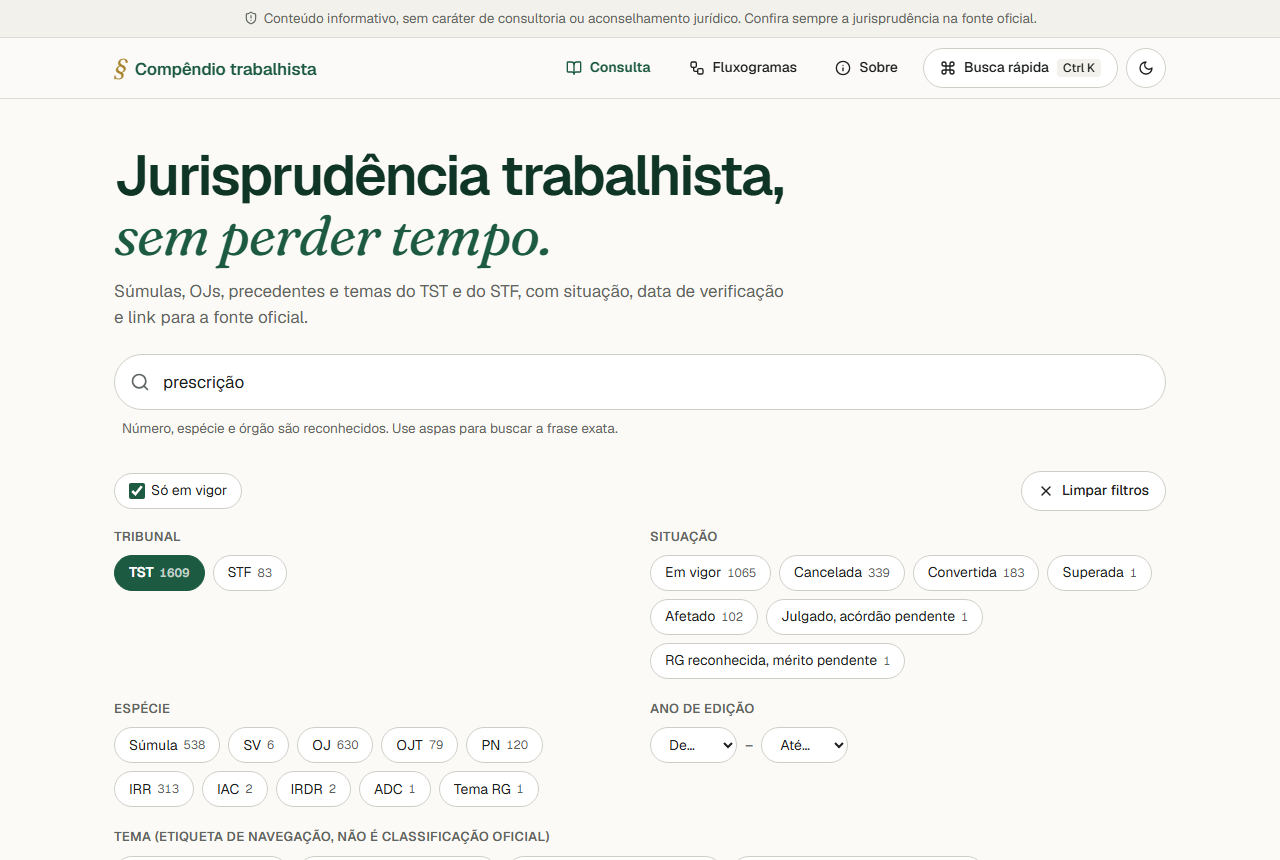
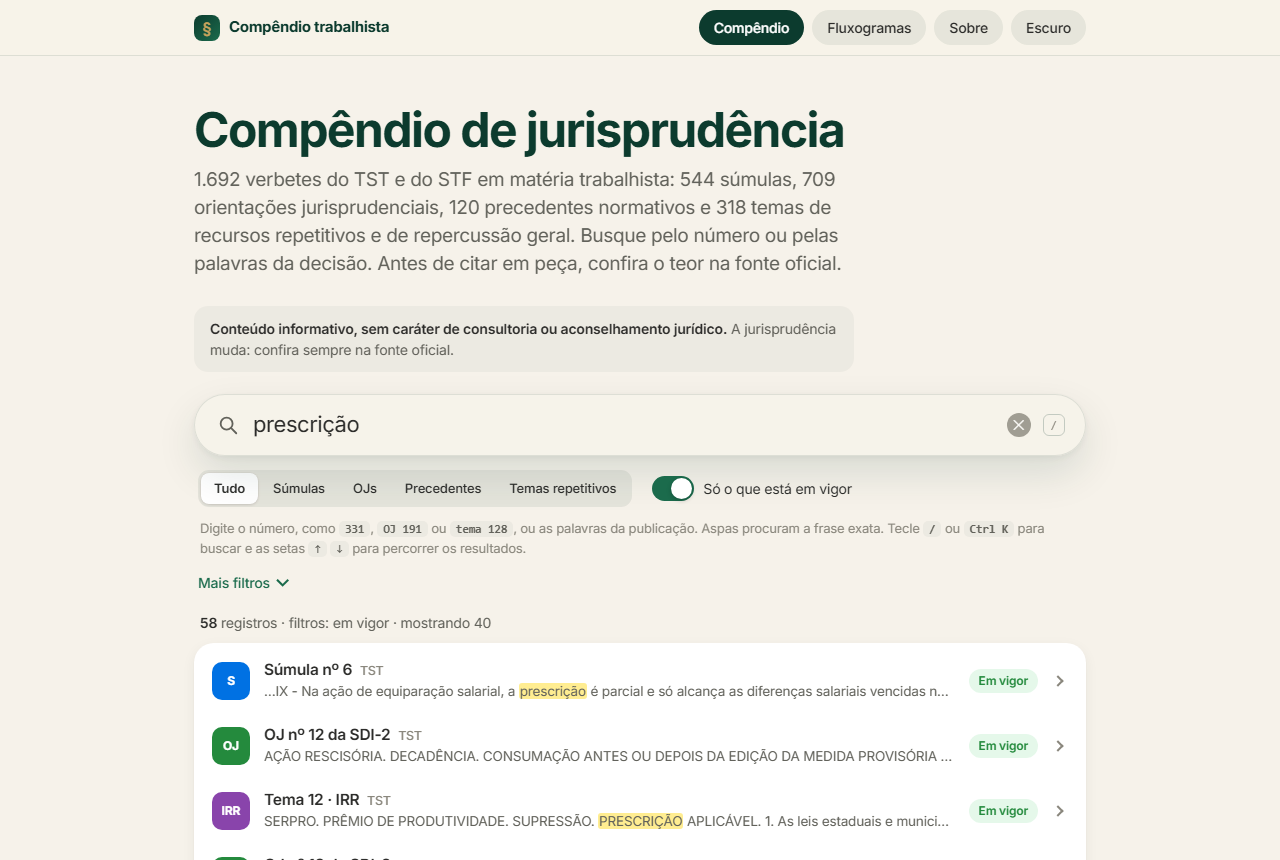
Atualiza README, licenças, case e imagens para o novo visual

diff --git a/public/case.html b/public/case.html
@@ -12,44 +12,44 @@
 <meta property="og:image" content="https://ygorsoaresadv-blip.github.io/compendio-trabalhista/og.png">
 <meta property="og:type" content="article">
 <style>
-@font-face{font-family:Geist;font-weight:100 900;font-display:swap;src:url(fonts/geist-latin.woff2) format("woff2")}
-@font-face{font-family:Fraunces;font-style:italic;font-weight:100 900;font-display:swap;src:url(fonts/fraunces-italic-latin.woff2) format("woff2")}
-:root{--bg:#fbfaf7;--fg:#1d1f1e;--muted:#5f6661;--line:#dcdbd4;--verde:#0f3527;--link:#1c5a41;--ouro:#a9852f;--card:#fff;--tile:#f2f1ec}
-@media (prefers-color-scheme:dark){:root{--bg:#0a2118;--fg:#eef3ef;--muted:#aebdb4;--line:#25483a;--verde:#eef3ef;--link:#d4b566;--ouro:#d4b566;--card:#0f2d22;--tile:#11332a}}
+@font-face{font-family:"Inter Variable";font-weight:100 900;font-display:swap;src:url(fonts/inter-latin-wght-normal.woff2) format("woff2")}
+:root{--bg:#F6F2EA;--elev:#fff;--fg:#2C2C2A;--muted:#62625B;--faint:#8A877D;--line:rgba(12,59,46,.11);--tinta:#0C3B2E;--link:#1B6B4C;--ouro:#8F6F2E;--fill:rgba(12,59,46,.075);--fill2:rgba(12,59,46,.04);--sombra:0 1px 2px rgba(12,59,46,.05),0 4px 14px rgba(12,59,46,.06)}
 *{box-sizing:border-box}
-body{margin:0;background:var(--bg);color:var(--fg);font:17px/1.6 Geist,system-ui,sans-serif;-webkit-font-smoothing:antialiased}
+body{margin:0;background:var(--bg);color:var(--fg);font:16px/1.55 -apple-system,BlinkMacSystemFont,"SF Pro Text","Inter Variable",Inter,"Segoe UI",Roboto,Arial,sans-serif;letter-spacing:-.011em;-webkit-font-smoothing:antialiased}
 a{color:var(--link);text-underline-offset:3px}
-:focus-visible{outline:2px solid var(--link);outline-offset:3px;border-radius:6px}
+:focus-visible{outline:3px solid rgba(198,163,92,.7);outline-offset:2px;border-radius:8px}
 .w{max-width:760px;margin:0 auto;padding:0 20px}
-header{padding:20px 0;border-bottom:1px solid var(--line)}
-.logo{font-weight:600;color:var(--verde);text-decoration:none;display:inline-flex;gap:8px;align-items:baseline}
-.logo i{font:italic 400 24px Fraunces,Georgia,serif;color:var(--ouro)}
-h1{font-size:clamp(36px,6vw,58px);line-height:1.05;letter-spacing:-.035em;color:var(--verde);margin:48px 0 14px;font-weight:600;text-wrap:balance}
-h1 em{font:italic 400 1em Fraunces,Georgia,serif;color:var(--link);letter-spacing:-.02em}
-h2{font-size:28px;letter-spacing:-.02em;color:var(--verde);margin:52px 0 10px;font-weight:600}
-p{margin:0 0 16px;text-wrap:pretty}.lead{font-size:20px;color:var(--muted)}
-.chips{display:flex;flex-wrap:wrap;gap:8px;margin:20px 0 0;padding:0;list-style:none}
-.chips li{border:1px solid var(--line);border-radius:999px;padding:4px 14px;font-size:14.5px;background:var(--card)}
-.num{display:grid;grid-template-columns:repeat(auto-fit,minmax(150px,1fr));gap:12px;margin:28px 0}
-.num div{background:var(--tile);border-radius:18px;padding:16px 18px}
-.num b{display:block;font-size:30px;letter-spacing:-.03em;color:var(--verde)}.num span{font-size:14px;color:var(--muted)}
-figure{margin:28px 0}figure img{width:100%;height:auto;border:1px solid var(--line);border-radius:18px;display:block}
-figcaption{font-size:14.5px;color:var(--muted);margin-top:8px}
+header{position:sticky;top:0;background:rgba(246,242,234,.8);backdrop-filter:saturate(180%) blur(20px);border-bottom:1px solid var(--line);padding:12px 0;z-index:5}
+.logo{display:inline-flex;align-items:center;gap:9px;font-weight:700;font-size:15px;letter-spacing:-.02em;color:var(--tinta);text-decoration:none}
+.logo b{width:26px;height:26px;border-radius:8px;background:linear-gradient(135deg,#0C3B2E,#1B6B4C);color:#C6A35C;display:inline-flex;align-items:center;justify-content:center;font-size:16px}
+h1{font-size:clamp(34px,5.6vw,52px);line-height:1.08;letter-spacing:-.032em;color:var(--tinta);margin:44px 0 12px;font-weight:700;text-wrap:balance}
+h2{font-size:26px;letter-spacing:-.025em;color:var(--tinta);margin:48px 0 10px;font-weight:700}
+p{margin:0 0 16px;text-wrap:pretty}.lead{font-size:19px;color:var(--muted);letter-spacing:-.017em}
+.eyebrow{font-weight:600;color:var(--ouro);margin:44px 0 0;font-size:14px}
+.chips{display:flex;flex-wrap:wrap;gap:8px;margin:18px 0 0;padding:0;list-style:none}
+.chips li{border-radius:99px;padding:4px 14px;font-size:13.5px;font-weight:500;background:var(--fill);color:var(--muted)}
+.num{display:grid;grid-template-columns:repeat(auto-fit,minmax(150px,1fr));gap:12px;margin:26px 0;padding:0;list-style:none}
+.num li{background:var(--elev);border-radius:20px;padding:16px 18px;box-shadow:var(--sombra)}
+.num b{display:block;font-size:28px;letter-spacing:-.03em;color:var(--tinta)}.num span{font-size:13.5px;color:var(--muted)}
+figure{margin:26px 0}figure img{width:100%;height:auto;border-radius:20px;display:block;box-shadow:var(--sombra)}
+figcaption{font-size:13.5px;color:var(--faint);margin-top:8px}
 .duo{display:grid;grid-template-columns:1fr 1fr;gap:16px}@media(max-width:640px){.duo{grid-template-columns:1fr}}
-ul.l{padding-left:20px}ul.l li{margin:6px 0}
-.aviso{background:var(--tile);border-radius:18px;padding:16px 20px;font-size:15px;color:var(--muted);margin-top:44px}
-footer{border-top:1px solid var(--line);margin-top:56px;padding:26px 0 56px;font-size:14.5px;color:var(--muted)}
-.cta{display:inline-block;margin-top:8px;background:var(--link);color:var(--bg);padding:11px 22px;border-radius:999px;text-decoration:none;font-weight:600}
+ul.l{padding-left:20px}ul.l li{margin:7px 0}
+code{font:12.5px ui-monospace,Menlo,Consolas,monospace;background:var(--fill2);padding:1px 6px;border-radius:5px}
+.aviso{background:var(--fill2);border-radius:14px;padding:14px 18px;font-size:14px;color:var(--muted);margin-top:44px}
+footer{margin-top:52px;padding:24px 0 56px;font-size:13px;color:var(--faint);border-top:1px solid var(--line)}
+.btn{display:inline-block;margin-top:6px;background:var(--tinta);color:#fff;padding:9px 18px;border-radius:99px;text-decoration:none;font-weight:500;font-size:14px}
+@media (prefers-reduced-motion:reduce){*{transition:none!important;animation:none!important}}
 </style>
 </head>
 <body>
-<header><div class="w"><a class="logo" href="./"><i>§</i>Compêndio trabalhista</a></div></header>
+<header><div class="w"><a class="logo" href="./"><b aria-hidden="true">§</b>Compêndio trabalhista</a></div></header>
 <main class="w">
-<p style="margin-top:44px;font-weight:600;color:var(--ouro)">Case de portfólio</p>
-<h1>Uma ferramenta da minha rotina, <em>aberta para todo mundo.</em></h1>
+<p class="eyebrow">Case de portfólio</p>
+<h1>Uma ferramenta da minha rotina, aberta para todo mundo.</h1>
 <p class="lead">Eu consultava súmulas e orientações do TST dezenas de vezes por semana, em abas diferentes. Juntei tudo em uma ferramenta de busca e, agora, ela é pública e gratuita.</p>
 <ul class="chips" aria-label="Resumo"><li>Direito do Trabalho</li><li>Design e desenvolvimento</li><li>Site estático, sem coleta de dados</li></ul>
-<p style="margin-top:20px"><a class="cta" href="./">Abrir o compêndio</a></p>
+<p style="margin-top:20px"><a class="btn" href="./">Abrir o compêndio</a></p>
 
 <h2>O problema</h2>
 <p>Quem trabalha com Direito do Trabalho vive de consultar entendimentos do TST e do STF. Os sites oficiais são completos, mas lentos para o dia a dia: cada tipo de verbete mora em um lugar, o status (em vigor, cancelada, convertida) pede atenção extra e montar uma citação certa toma tempo.</p>
@@ -59,12 +59,12 @@ footer{border-top:1px solid var(--line);margin-top:56px;padding:26px 0 56px;font
 <p>Um site de consulta rápida que reúne <strong>1.692 verbetes</strong> em um só lugar, com busca instantânea e uma regra que me guiou em todas as decisões: <strong>nada aparece sem dizer a situação, a data de verificação e a fonte oficial.</strong></p>
 <figure><img src="case/consulta-desktop.png" alt="Tela inicial do compêndio com a busca por prescrição e os filtros de tribunal, situação, espécie e ano" loading="lazy" width="1280" height="860"><figcaption>Busca em primeiro plano, filtros em chips e tudo compartilhável pelo endereço.</figcaption></figure>
 
-<div class="num" role="list">
-<div role="listitem"><b>1.692</b><span>verbetes do TST e do STF</span></div>
-<div role="listitem"><b>1 clique</b><span>para copiar a citação pronta</span></div>
-<div role="listitem"><b>100</b><span>acessibilidade, boas práticas e SEO no Lighthouse</span></div>
-<div role="listitem"><b>0</b><span>cookies, cadastros ou rastreadores</span></div>
-</div>
+<ul class="num">
+<li><b>1.692</b><span>verbetes do TST e do STF</span></li>
+<li><b>1 clique</b><span>para copiar a citação pronta</span></li>
+<li><b>100</b><span>acessibilidade, boas práticas e SEO no Lighthouse</span></li>
+<li><b>0</b><span>cookies, cadastros ou rastreadores</span></li>
+</ul>
 
 <h2>O que ele faz</h2>
 <ul class="l">
@@ -77,20 +77,21 @@ footer{border-top:1px solid var(--line);margin-top:56px;padding:26px 0 56px;font
 </ul>
 <div class="duo">
 <figure><img src="case/cartao-aberto.png" alt="Cartão aberto da ADC 80 do STF, com resumo da notícia oficial, pendências de verificação, linha do tempo e botões de citação" loading="lazy" width="1280" height="2000" style="object-fit:cover;object-position:top;max-height:520px"><figcaption>Cartão aberto: o que se sabe, o que ainda falta confirmar e de onde veio.</figcaption></figure>
-<figure><img src="case/mobile-escuro.png" alt="Versão para celular em modo escuro, com a busca e os primeiros resultados" loading="lazy" width="500" height="980" style="object-fit:cover;object-position:top;max-height:520px"><figcaption>Pensado primeiro para o celular, com modo escuro.</figcaption></figure>
+<figure><img src="case/mobile-escuro.png" alt="Versão para celular em modo escuro, com a busca e os primeiros resultados" loading="lazy" width="500" height="980" style="object-fit:cover;object-position:top;max-height:520px"><figcaption>A mesma tela no celular, em modo escuro.</figcaption></figure>
 </div>
 
 <h2>Decisões de design</h2>
 <ul class="l">
 <li><strong>Honestidade antes de tudo.</strong> Onde a tese ainda não saiu (como na ADC 80), o site mostra um resumo da notícia oficial, diz que a tese literal não foi localizada e lista as pendências. Prefiro um aviso a uma certeza inventada.</li>
-<li><strong>Identidade do meu site.</strong> Verde-noite, dourado como detalhe, Geist nos textos e Fraunces itálico na assinatura, com o § como marca.</li>
+<li><strong>Visual limpo, no estilo dos apps do dia a dia.</strong> Fundo creme, verde-escuro nos títulos, dourado só como detalhe, cantos suaves, barras de vidro fosco e o § como marca. É a mesma linguagem do compêndio que uso no escritório.</li>
+<li><strong>Busca como o Spotlight do Mac.</strong> Um campo grande, atalhos de espécie logo abaixo e resultados que se abrem no próprio lugar, com o termo buscado marcado em amarelo.</li>
 <li><strong>Jurídico, mas leve.</strong> Leitura confortável, alvos de toque generosos, contraste conferido e navegação inteira pelo teclado.</li>
 <li><strong>Sem coleta de dados.</strong> Favoritos e tema ficam só no navegador de quem usa. Não há servidor nem análise de uso.</li>
 <li><strong>Aviso sempre visível:</strong> conteúdo informativo, sem caráter de consultoria; confira na fonte oficial.</li>
 </ul>
 
 <h2>Como foi feito</h2>
-<p>Site estático (Vite, React, TypeScript e Tailwind), com busca no próprio navegador (MiniSearch) e busca rápida adaptada de um componente do 21st.dev. Os dados são arquivos JSON versionados; a publicação é automática pelo GitHub Pages. O JavaScript inicial tem cerca de 67&nbsp;KB comprimido, e os verbetes carregam em paralelo.</p>
+<p>Site estático (Vite, React e TypeScript), com busca no próprio navegador e um campo de busca em estilo Spotlight, adaptado de um componente do 21st.dev. Fonte Inter. Os dados são arquivos JSON versionados; a publicação é automática pelo GitHub Pages. O JavaScript inicial tem cerca de 58&nbsp;KB comprimido, e os verbetes carregam em paralelo.</p>
 
 <h2>Processo e limites</h2>
 <p>O ponto de partida foi um compêndio interno do escritório. Para a versão pública, <strong>criei um repositório novo, sem histórico</strong>, e levei só jurisprudência oficial: nada de casos, clientes, regras ou fluxos internos. Antes de publicar, rodei uma varredura de padrões sensíveis e conferi o histórico do git.</p>

diff --git a/README.md b/README.md
@@ -13,11 +13,11 @@ recursos repetitivos e alguns temas do STF com impacto direto na matéria. Cada 
 
 - **1.692 verbetes** (TST 1.609 e STF 83): súmulas, súmulas vinculantes, OJs, OJs transitórias, PNs, IRRs, IACs, IRDRs, ADC 80 e Tema 1389.
 - **Busca instantânea** no navegador. Entende número e espécie (`331`, `OJ 191`, `SDI-1 54`, `SV 22`, `tema 1389`) e frase exata entre aspas.
-- **Busca rápida** com `Ctrl K` / `⌘K`.
-- **Filtros** por tribunal, espécie, situação, tema e ano, e atalho "só em vigor".
-- **Cartões expansíveis** com tese, questão jurídica, referências, observação oficial e **linha do tempo**.
+- **Campo de busca em estilo Spotlight**, com os atalhos `/` e `Ctrl K` / `⌘K`, setas para percorrer os resultados e o termo marcado no texto.
+- **Filtros:** atalhos de espécie, chave "só o que está em vigor" e "Mais filtros" (tribunal, órgão, tema, status, espécie exata, ordem e favoritos).
+- **Linhas que se abrem no lugar**, com tese, questão jurídica, referências, observação oficial e **linha do tempo** das redações.
 - **Copiar citação** em formato forense ou ABNT, com link oficial. **Copiar link** do verbete.
-- **Favoritos** (ficam só no seu navegador) e **modo claro/escuro**.
+- **Favoritos** (ficam só no seu navegador) e **modo claro/escuro** (abre sempre no claro).
 - **Compartilhamento por URL**: busca, filtros e o verbete aberto vão no endereço.
 - **Fluxogramas** de navegação para achar o verbete certo.
 - Sem cadastro, sem cookies, sem rastreamento, sem servidor.
@@ -25,7 +25,7 @@ recursos repetitivos e alguns temas do STF com impacto direto na matéria. Cada 
 ## Situação dos verbetes
 
 `Em vigor`, `Cancelada`, `Convertida`, `Superada`, `Afetado` (IRR em andamento), `Julgado, acórdão pendente`,
-`RG reconhecida, mérito pendente`. Cada status tem texto e símbolo próprios; a cor nunca é o único sinal.
+`RG reconhecida, mérito pendente`. Cada status tem texto próprio; a cor nunca é o único sinal.
 
 ## Sobre os dados e a atualização
 
@@ -51,14 +51,14 @@ status e **link oficial**; o que não puder ser verificado na fonte não deve en
 
 ## Stack
 
-Vite, React, TypeScript, Tailwind CSS v4, MiniSearch (busca no cliente), cmdk e Radix Dialog (busca rápida,
-adaptada de um componente do [21st.dev](https://21st.dev)). Fontes Geist e Fraunces, servidas localmente.
+Vite, React e TypeScript. A busca roda no navegador, sem dependências, e o campo de busca em estilo Spotlight é
+adaptado de um componente do [21st.dev](https://21st.dev). Fonte Inter, servida localmente. Sem Tailwind e sem biblioteca de componentes.
 Publicado no GitHub Pages por GitHub Actions.
 
 ## Licenças
 
 - **Código:** [MIT](LICENSE).
 - **Conteúdo organizado e notas editoriais:** [CC0 1.0](LICENSE-CONTEUDO.md), uso irrestrito. Os textos oficiais são públicos.
-- **Fontes:** Geist e Fraunces, SIL Open Font License 1.1.
+- **Fonte:** Inter, SIL Open Font License 1.1 (`public/fonts/LICENSE-Inter.txt`).
 
 Criado por [Ygor Soares](https://ygor.blog).

diff --git a/LICENSE-CONTEUDO.md b/LICENSE-CONTEUDO.md
@@ -10,5 +10,5 @@ Você pode copiar, modificar, redistribuir e usar, inclusive comercialmente, sem
 - Os **textos oficiais** (súmulas, OJs, precedentes, teses, ementas) são atos e decisões de órgãos públicos e continuam
   sendo públicos; a fonte é sempre o tribunal. Cada verbete traz o link para a fonte oficial.
 - O **código** do site segue a licença MIT (arquivo `LICENSE`).
-- A fonte **Geist** e a fonte **Fraunces** (pasta `public/fonts`) têm licença própria (SIL Open Font License 1.1).
+- A fonte **Inter** (pasta `public/fonts`) tem licença própria (SIL Open Font License 1.1).
 - Sem garantia: o conteúdo é informativo, sem caráter de consultoria ou aconselhamento jurídico.
